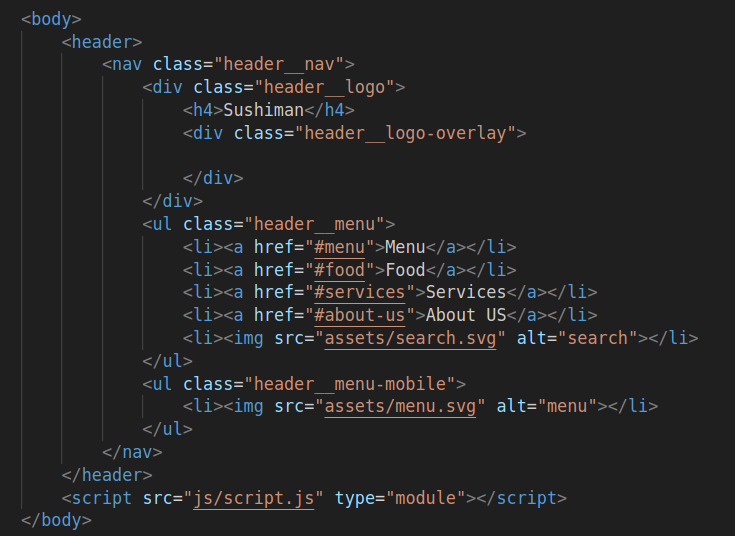
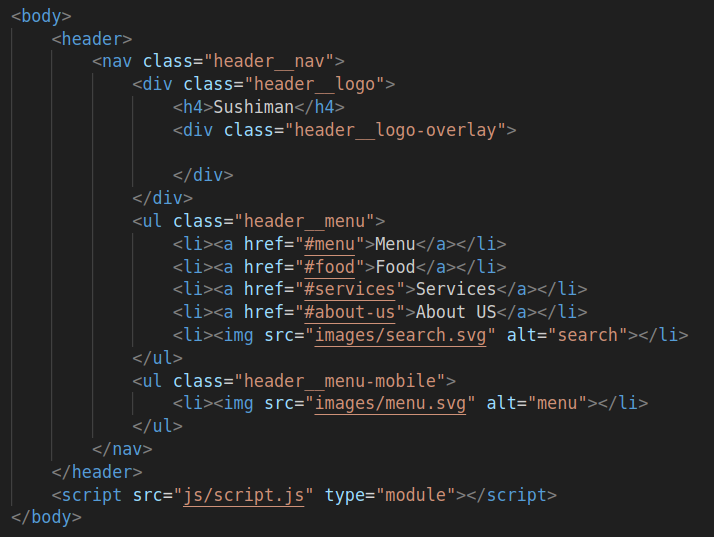
Step1-header

Changed region(s): [[0.0, 0.2985, 0.9552, 0.9851], [0.0308, 0.0, 0.7395, 0.2687]]

diff --git a/Step1-header/README.md b/Step1-header/README.md
@@ -29,4 +29,8 @@
 
 ![step1-07]()
 
+## If we are on mobile devices then we will not be able to see all these elements on the screen. so below this ul element we need to create another ul element with class="header__menu-mobile" it will be for mobile devices, and it will render just one li element that will render an image with src="images/menu.svg" and alt="menu".
+
 ![step1-08]()
+## White menu appears here, but later on they're going to be divided depending on which device size.
+
